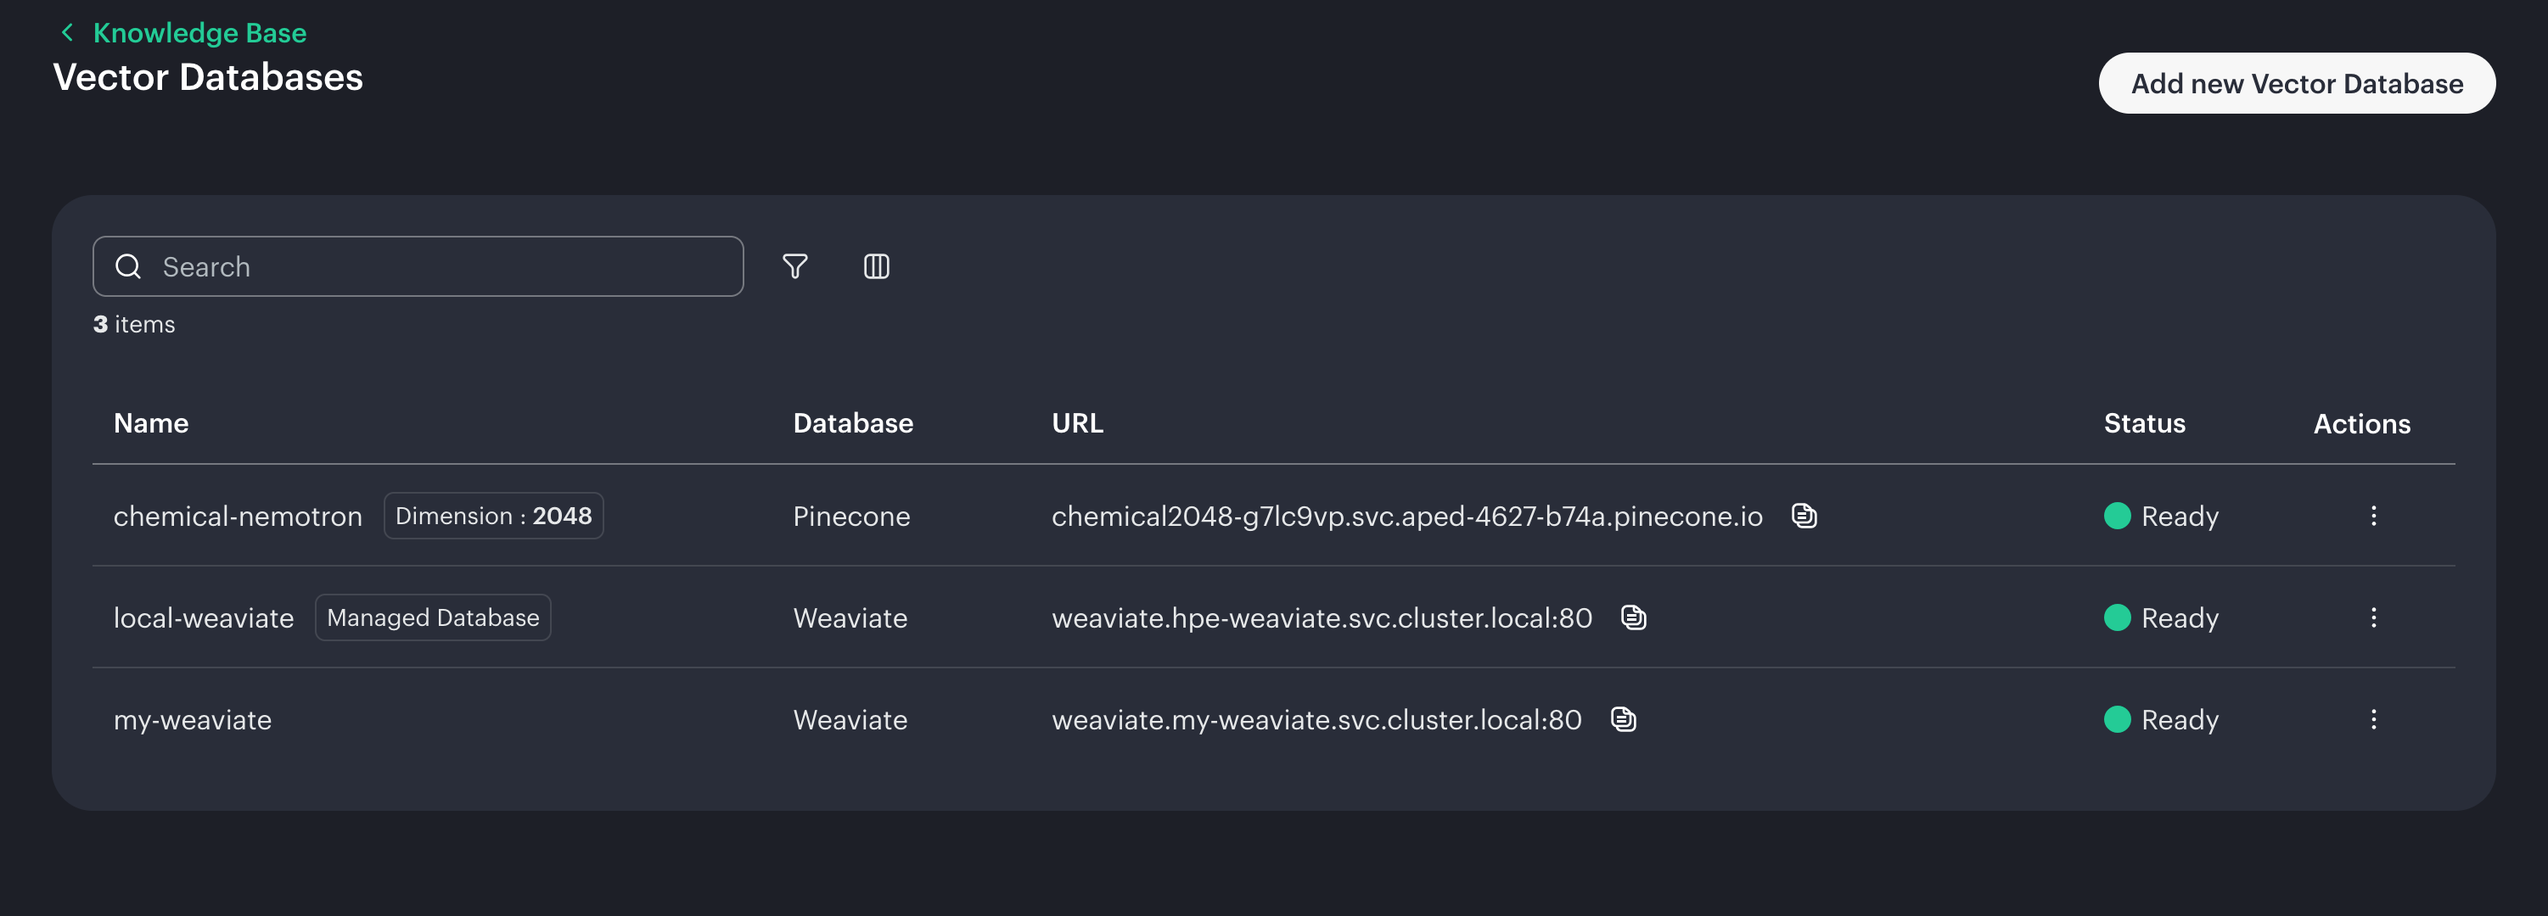
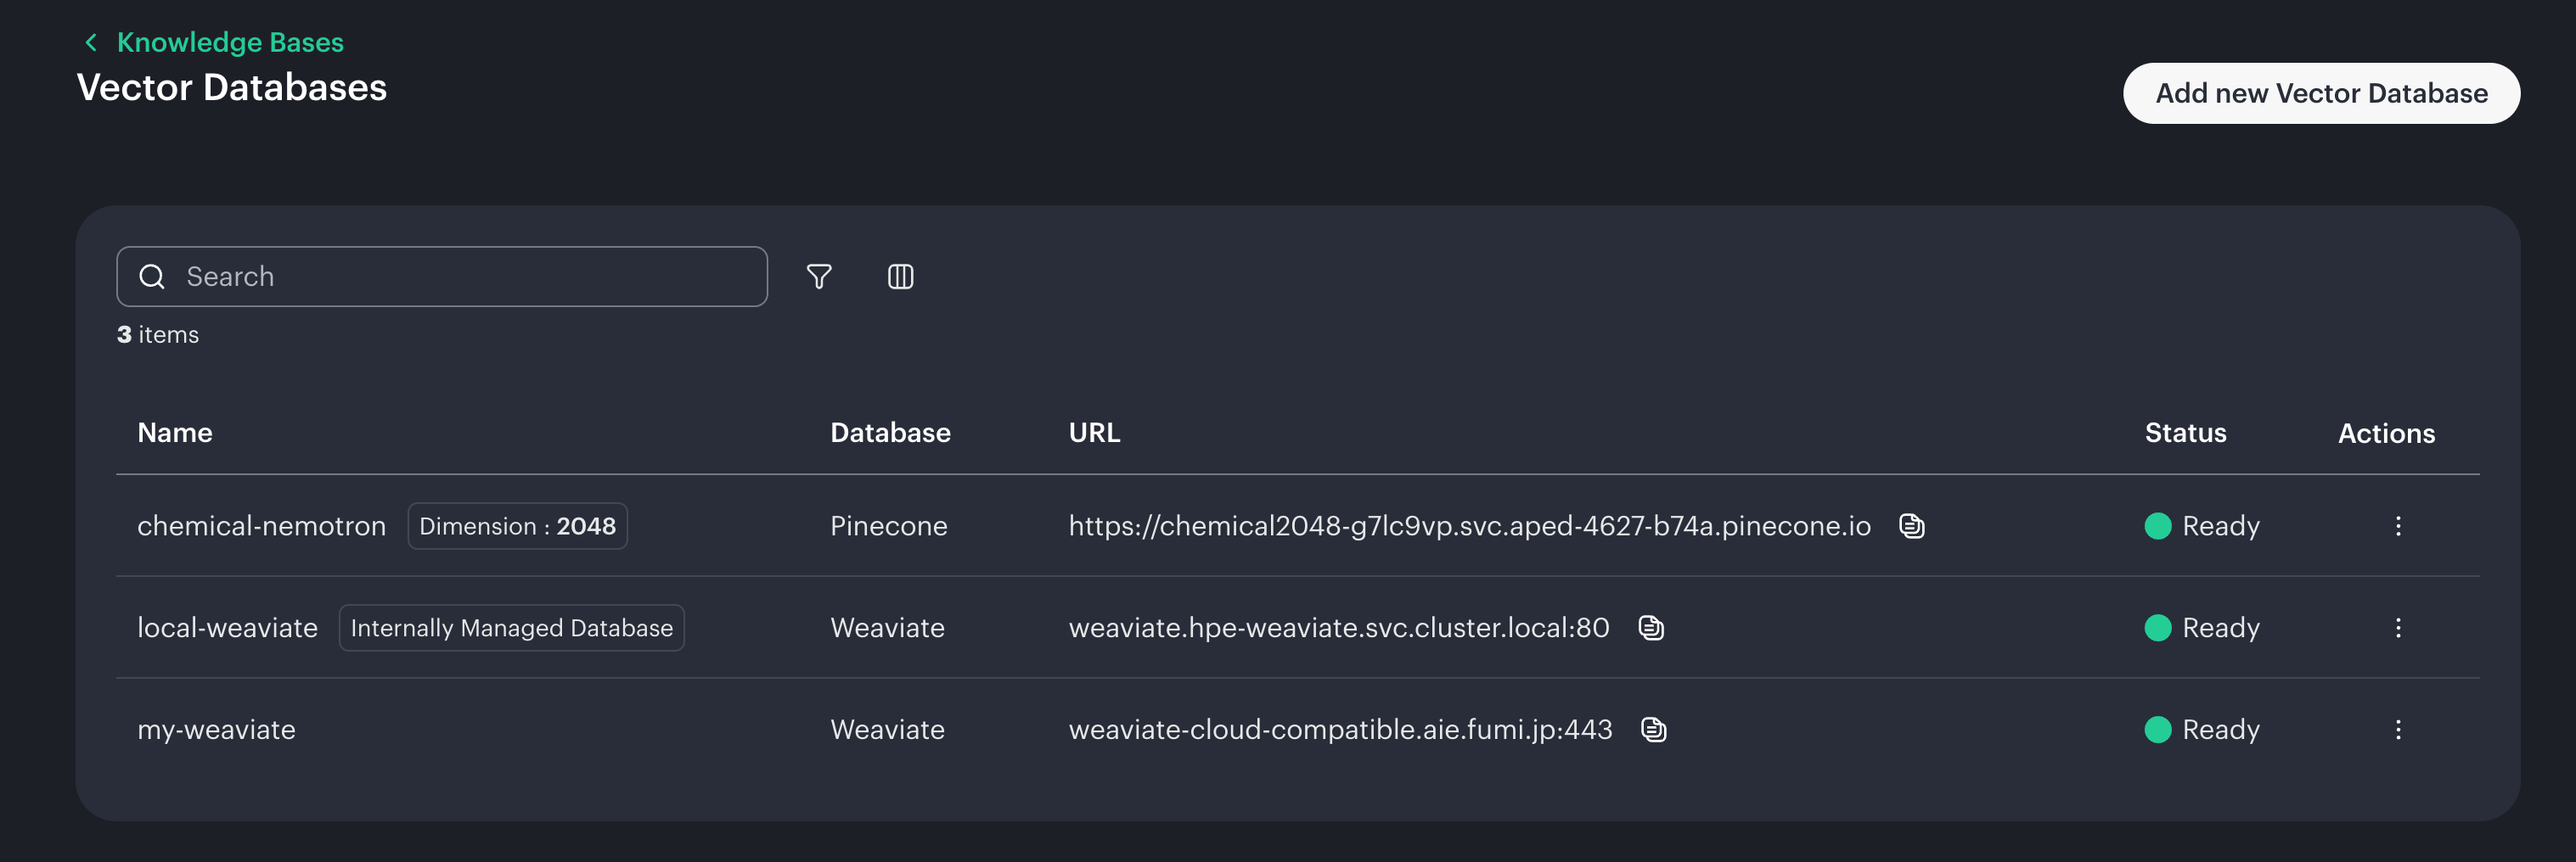
local weaviate 202612

diff --git a/pcai/kb-imported-weaviate/README.md b/pcai/kb-imported-weaviate/README.md
@@ -1,7 +1,7 @@
 [日本語](./README_JP.md)
 
 # Knowledge Base with imported Weaviate
-**Verified with version 202607**
+**Verified with version 202612**
 
 This article explains how to use an imported Weaviate instead of the shared Weaviate in Knowledge Base.
 
@@ -9,6 +9,34 @@ This article explains how to use an imported Weaviate instead of the shared Weav
 
 ### Importing Weaviate
 You can use the Import Framework to import Weaviate using a Helm chart available in [HPE's GitHub repository](https://github.com/ai-solution-eng/frameworks).
+
+You need to configure an API token for your Weaviate using a HELM value file like [the sample](./values.yaml) during installation.
+
+[The sample](./values.yaml) uses pre-configured API token.
+
+```bash
+kubectl -n YOUR_WEAVIATE_NAMESPACE create secret generic weaviate-api-key \\n  --from-literal=AUTHENTICATION_APIKEY_ALLOWED_KEYS="$(openssl rand -hex 32)"
+
+```
+
+### Making Istio VirtualService
+To allow the VectorStore Controller to connect to your Weaviate, create an Istio VirtualService.
+
+Define the VirtualService like [the sample](./vs.yaml).
+
+```bash
+kubectl apply -f vs.yaml
+```
+
+### Configure CA cert for the VectorStore Controller
+By default, the VectorStore Controller does not use the HPE AI Essentials CA when connecting to your imported Weaviate instance.
+
+Therefore, you need to configure the gRPC client to use the HPE AI Essentials CA by setting an environment variable.
+
+```bash
+kubectl -n ezai-services set env deployment/vectordb-svc \
+  GRPC_DEFAULT_SSL_ROOTS_FILE_PATH=/etc/ssl/certs/ca-certificates.crt
+```
 
 ### Making k8s custom resource
 HPE AI Essentials gives us a CRD for the vectorstores.
@@ -82,10 +110,10 @@ FIELDS:
     enum: Ready, InProgress, Failed, Deleting
 ```
 
-Making a CR to register imported Weaviate. You can use a samle yaml [here](sample.yaml).
+Making a CR to register imported Weaviate. You can use a samle yaml [here](vectorestore.yaml).
 
 ```bash
-kubectl apply -f sample.yaml
+kubectl apply -f vectorestore.yaml
 ```
 
 After applying, you can see the imported Weaviate as CR.
@@ -109,3 +137,4 @@ You can see the imported Weaviate on HPE AI Essentials dashboard.
 Now you can choose the imported Weaviate in *Selected external DB(s)*.
 
 ![](./pics/kb01.png)
+![](./pics/kb02.png)
